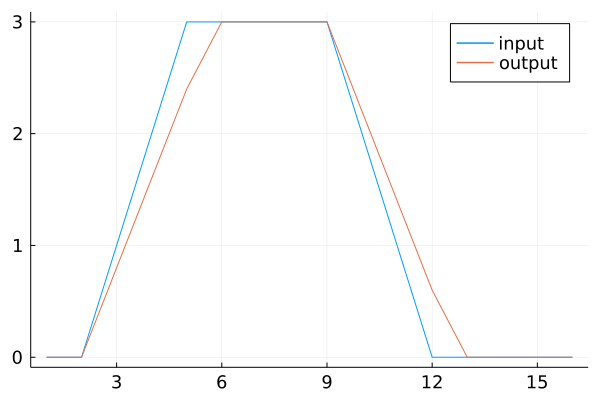
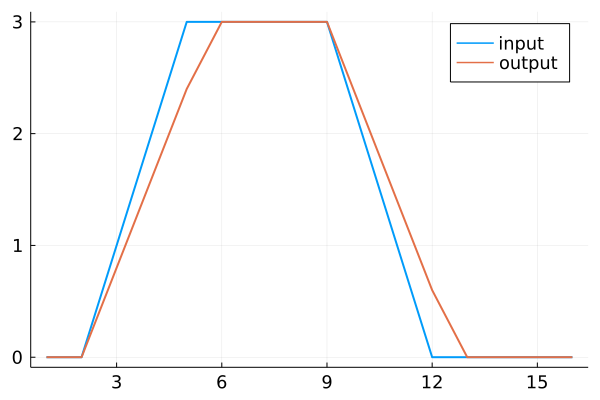
Add test_mixer3.jl

diff --git a/docs/components.md b/docs/components.md
@@ -41,8 +41,8 @@ for i in 1:16
     out[i] = calc_output(rl, input[i])
     on_timer(rl)
 end
-plot(1:16, input, label="input",xtickfontsize=12,ytickfontsize=12,legendfontsize=12)
-plot!(1:16, out, label="output")
+plot(1:16, input, label="input", width=2, xtickfontsize=12, ytickfontsize=12, legendfontsize=12)
+plot!(1:16, out, label="output", width=2)
 ```
 Expected output:
 <p align="center"><img src="./rate_limiter.png" width="500" /></p>
@@ -71,5 +71,23 @@ This component is equivalent to the following model:
 <p align="center"><img src="./mixer_3ch.png" width="500" /></p>
 It has three analog inputs, two digitals input and one analog output. It selects either input a or input b or input c depending on the values of the digital inputs and implements soft switching with a blend time t_blend.
 
+Example:
+```julia
+for i in 1:SAMPLES
+    if time(i) ≈ T1
+        select_b(mix3, true)
+    elseif time(i) ≈ T2
+        select_c(mix3, true)
+    elseif time(i) ≈ T3
+        select_c(mix3, false)        
+    end
+    factor_b[i] = mix3.factor_b
+    factor_c[i] = mix3.factor_c
+    out[i] = calc_output(mix3, SIN1[i], SIN2[i], NOISE[i])
+    on_timer(mix3)
+end
+```
+You can find the full example under the name `test_mixer3.jl` in the test folder.
+<p align="center"><img src="./mixer3.png" width="500" /></p>
 
 Continue with [README](../README.md)
